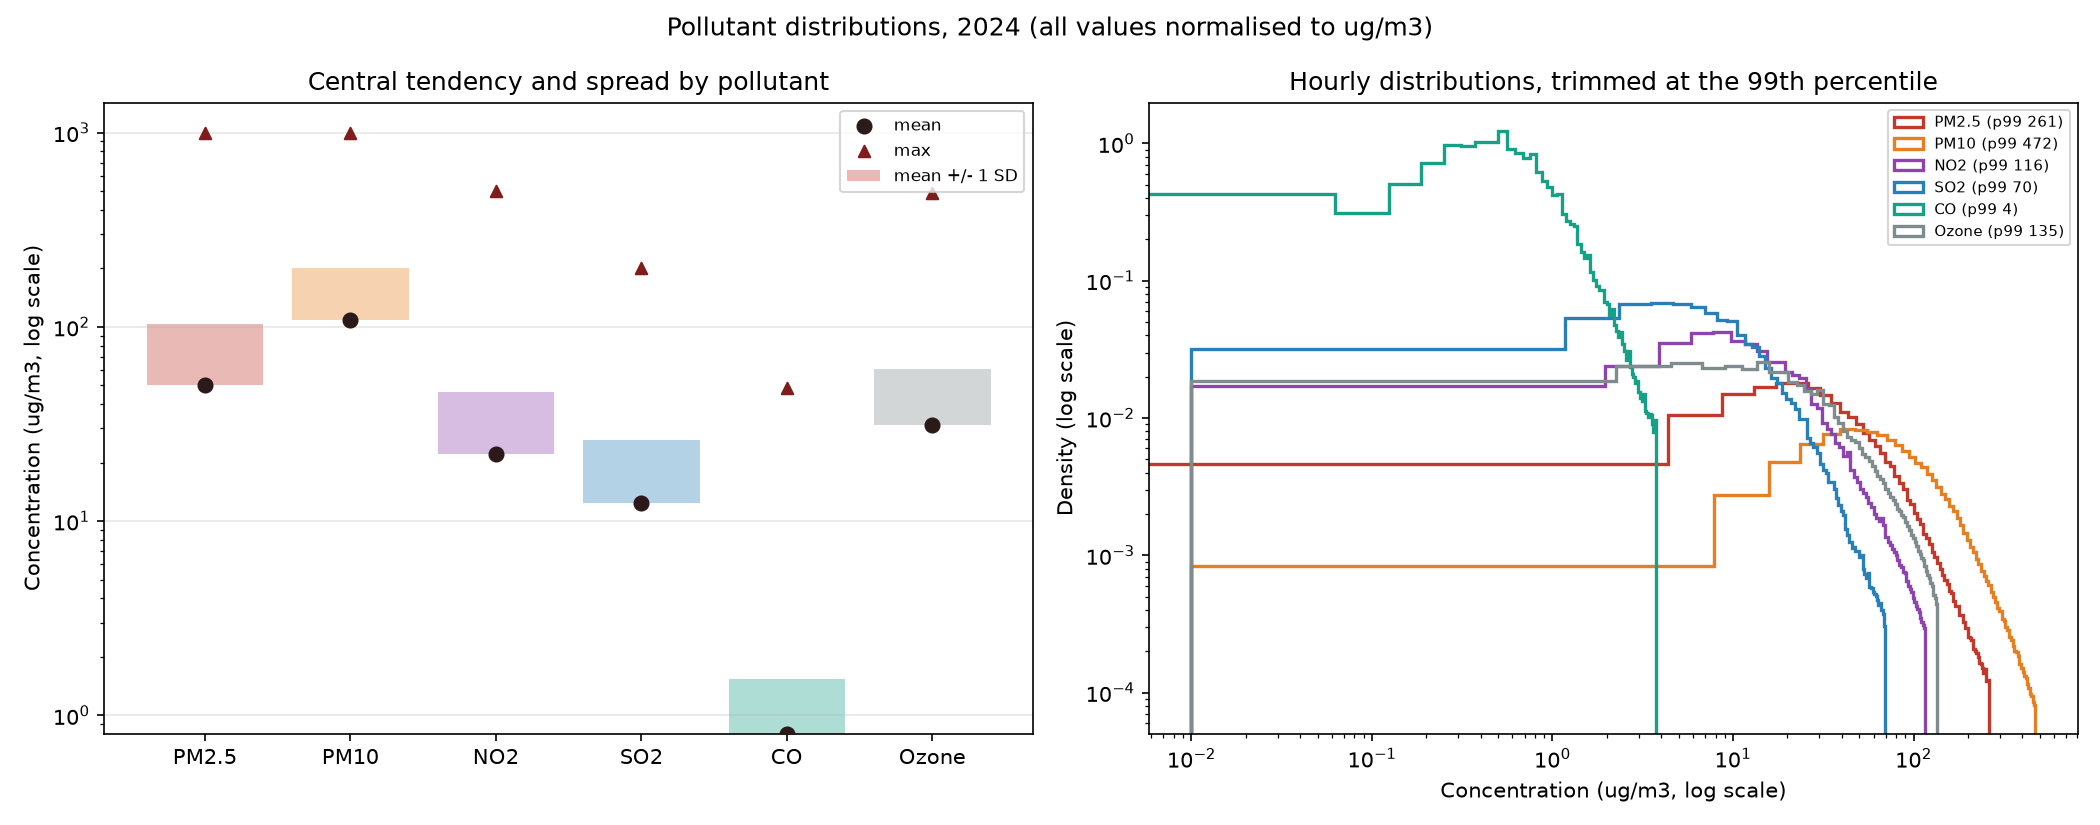
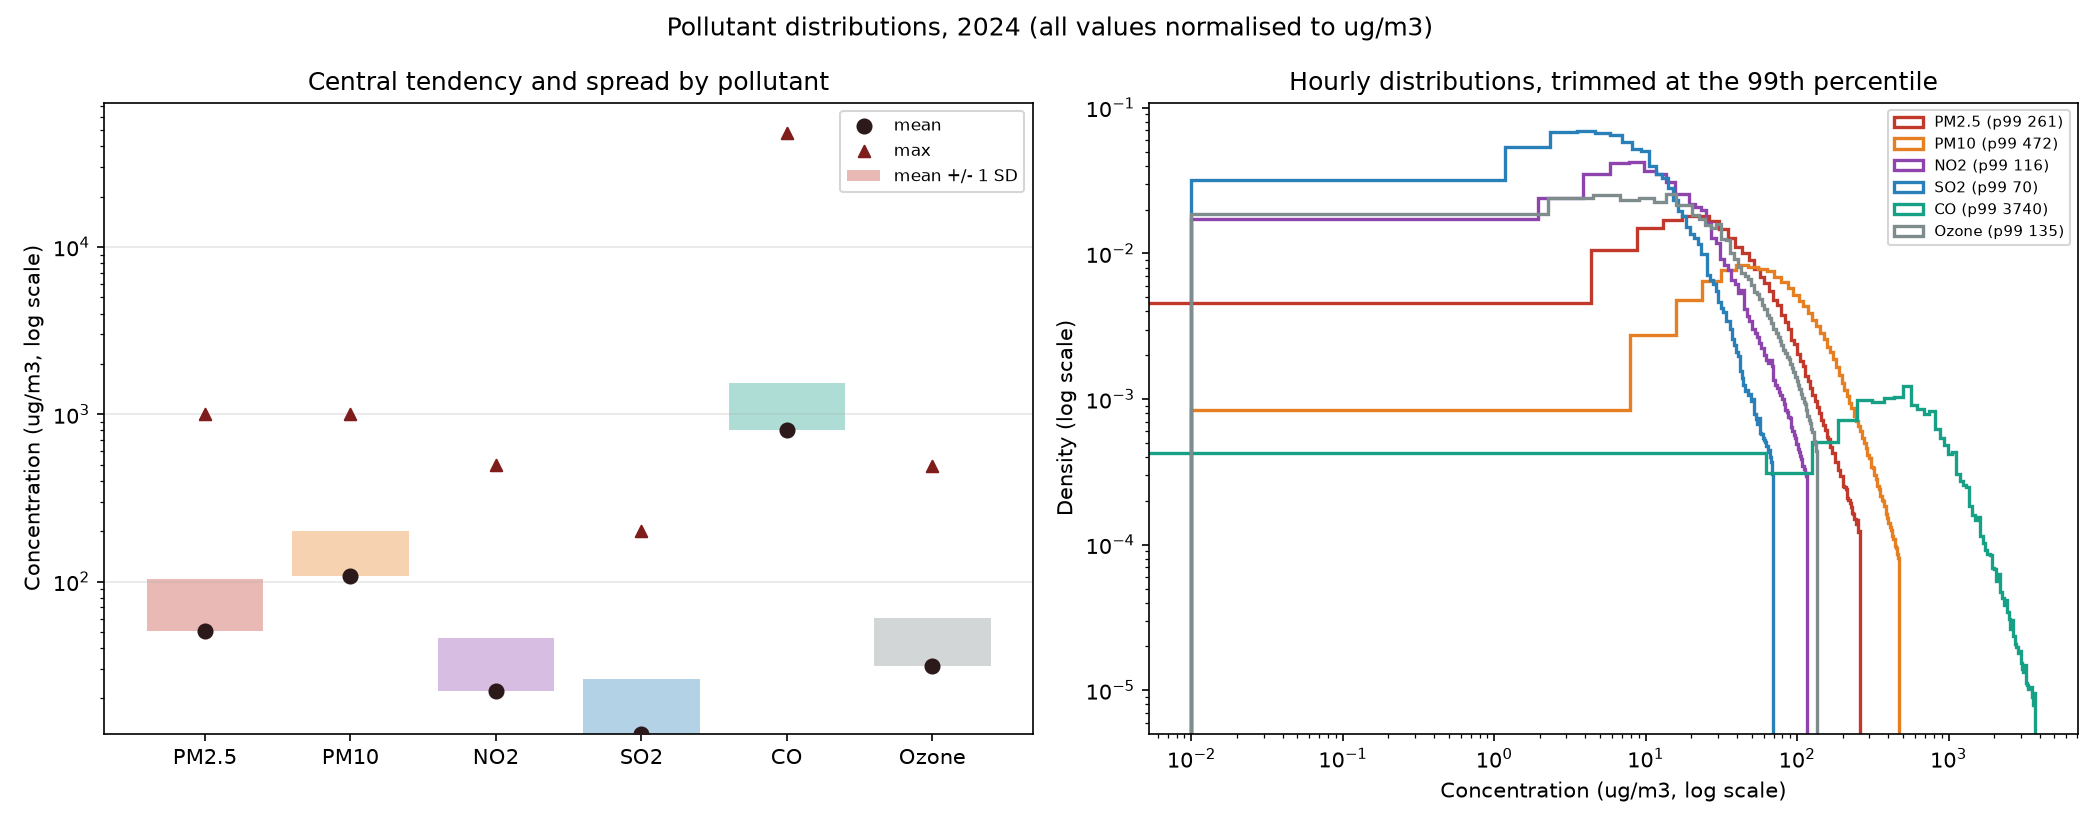
Run full pipeline on 46.9M rows with corrected CO units
Full run over all 46,937,170 readings (12 monthly Parquet partitions, 2024).

Results, cross-checked between two independently written tools:

  Pig rows              23,469,095
  MapReduce aggregated  23,469,095   <- exact agreement

  header rows skipped           52   (one per part file)
  non-core pollutants    23,468,051
  negative values dropped       24
  non-numeric values            0
  station-hours after reshape 4,198,821

CO now converts correctly: mean 806.18 ug/m3 (was 0.81 in mg/m3 before the
byte-level unit match). Pearson r is scale-invariant, so the correlation
matrix is unchanged, as expected.

Fixed a silent-failure path in run_all.sh: the Hive stage sent its output to
/dev/null, replaced a non-zero exit with a NOTE, and never invoked
statistics/hive_equivalent.py -- the script that actually writes
results/pollutant_stats.csv and the other result tables the charts read. A
transient YARN failure therefore left stale CSVs from an earlier run in place
where fresh output was expected. Hive errors are now surfaced, analysis.hql is
run, and hive_equivalent.py always executes regardless of Hive's outcome.

Also replaced a single global max-reading threshold of 5000 in the tests with
per-pollutant limits. The flat threshold predated the CO conversion and
rejected CO's legitimate 48,280 ug/m3 maximum, which had produced a false
failure.

tests/test_pipeline.sh: 31 passed, 0 failed.

diff --git a/docs/results.md b/docs/results.md
@@ -13,13 +13,9 @@ Reproduce with `./run_all.sh`, then inspect `results/`.
 
 ### A1. Dataset-wide means
 
-All values µg/m³.
-
-> ⚠ **STALE — the CO row below predates the unit-conversion fix.** CO was
-> published in mg/m³ and the pipeline failed to convert it, so it is shown here
-> in mg/m³ while every other pollutant is in µg/m³. This table is regenerated by
-> the full pipeline; until then treat only the CO row as wrong. See
-> `docs/subset_validation.md` for how the bug was found.
+All values µg/m³. CO was published by the source in mg/m³ and is converted
+(×1000) by the Pig ETL; see `docs/methodology.md` for why that match is
+byte-level rather than a plain string comparison.
 
 | Pollutant | n readings | mean | median | min | max | stddev |
 |---|---|---|---|---|---|---|
@@ -27,7 +23,7 @@ All values µg/m³.
 | PM10 | 3,864,549 | 108.17 | 82.25 | 0.01 | 1000.00 | 93.28 |
 | NO2 | 3,983,789 | 22.20 | 15.37 | 0.01 | 497.77 | 23.99 |
 | SO2 | 3,865,493 | 12.34 | 8.60 | 0.01 | 199.90 | 13.74 |
-| **CO** | 3,982,313 | **0.81 (mg/m³ — not converted)** | 0.63 | 0.00 | 48.28 | 0.73 |
+| CO | 3,982,313 | 806.18 | 630.00 | 0.00 | 48280.00 | 729.77 |
 | Ozone | 3,840,559 | 31.27 | 22.48 | 0.01 | 490.60 | 29.22 |
 
 Every distribution is strongly right-skewed: the median sits well below the

diff --git a/README.md b/README.md
@@ -29,6 +29,10 @@ These come from the project's own outputs, not from literature.
   National Capital Region neighbours occupy the top four positions.
 - **PM2.5 and PM10 correlate at r = 0.839.** Fine and coarse particulate move
   together, as expected from a shared combustion source.
+- **CO tracks the traffic pollutants: r = 0.411 with PM10 and 0.358 with NO₂,
+  while Ozone is essentially uncorrelated with every particulate (|r| < 0.07).**
+  Ozone forms in sunlight and is destroyed by the nitrogen oxides traffic
+  emits, so it behaves inversely to the combustion pollutants.
 - **Winter is the polluted season and the monsoon is the clean one.** Mean PM2.5
   peaks at 86.8 in November and 85.4 in January, and falls to 21.6 in August —
   a fourfold seasonal swing driven by monsoon rain scavenging particles.
